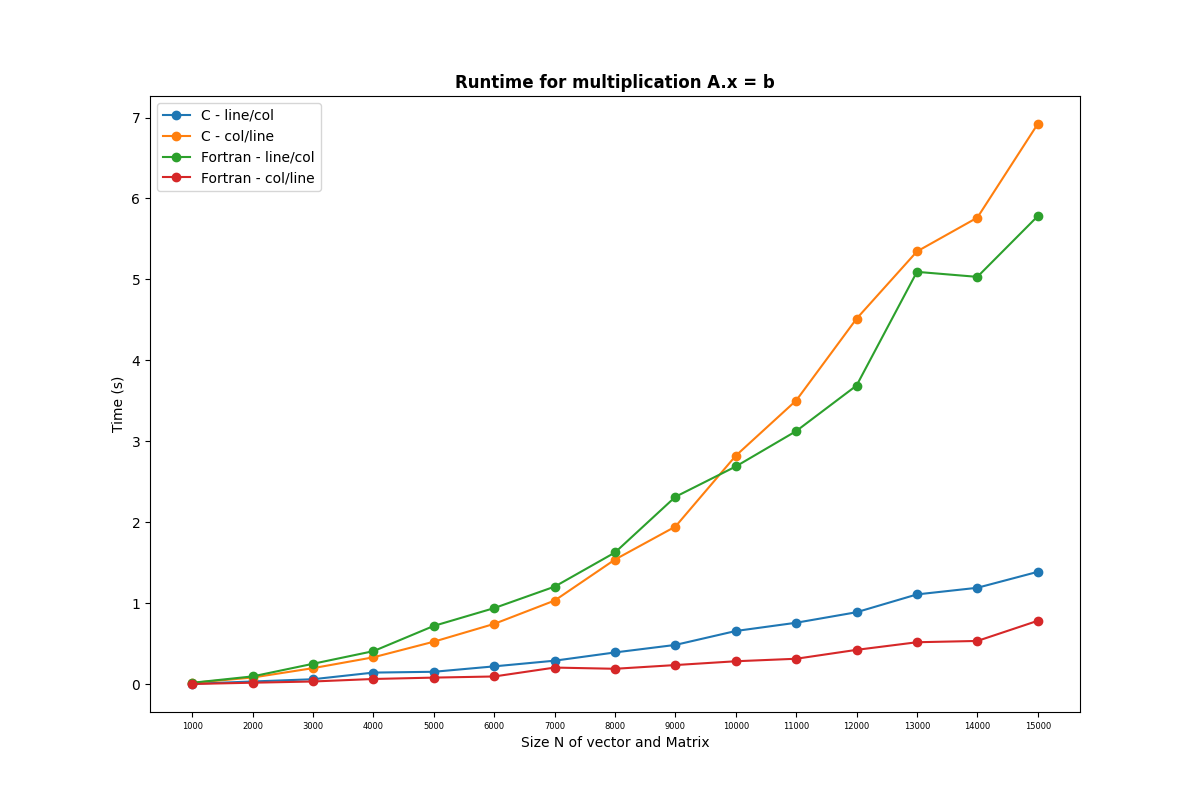
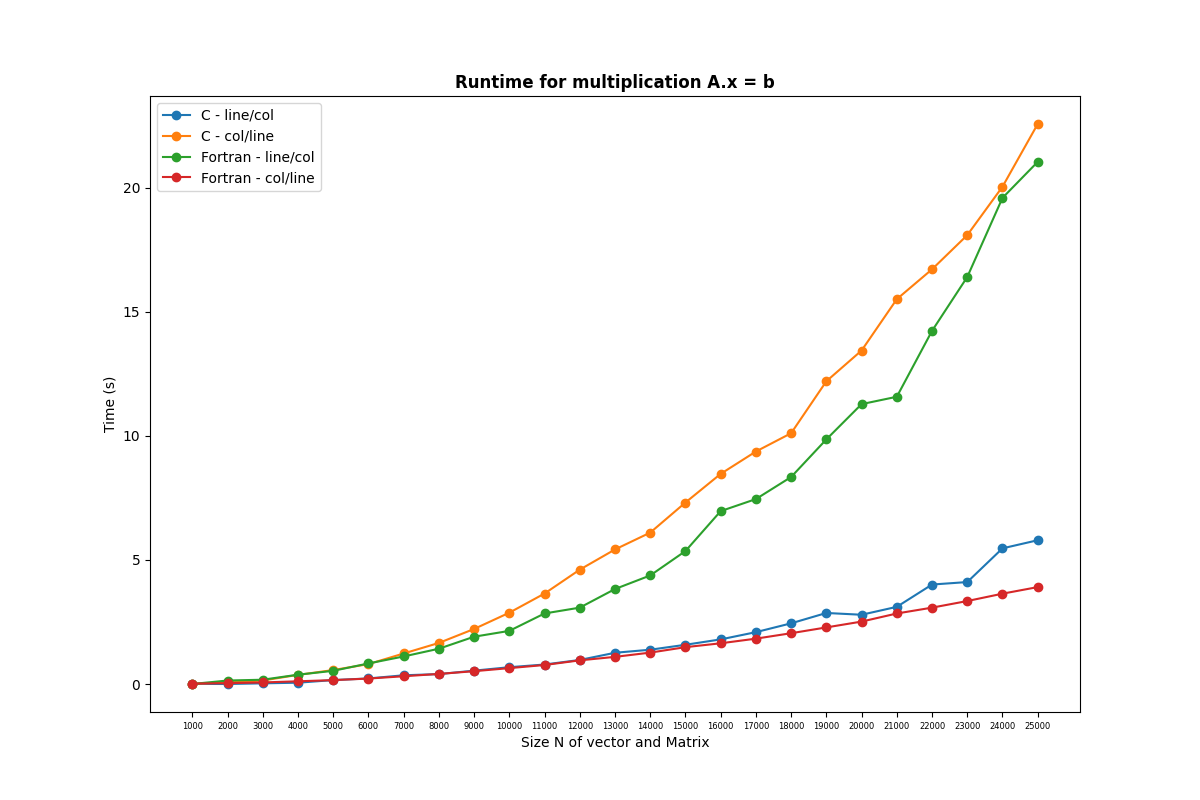
correcting bugs

diff --git a/TP1/plotter.py b/TP1/plotter.py
@@ -2,10 +2,15 @@ import matplotlib.pyplot as plt
 import matplotlib
 import numpy as np
 
-N = [1000, 2000, 3000, 4000, 5000, 6000, 7000, 8000, 9000, 10000, 11000, 12000, 13000, 14000, 15000]
+N = [1000, 2000, 3000, 4000, 5000,
+     6000, 7000, 8000, 9000, 10000,
+     11000, 12000, 13000, 14000, 15000,
+     16000, 17000, 18000, 19000, 20000,
+     21000, 22000, 23000, 24000, 25000]
+
 results = []
 
-filename = "results.txt"
+filename = "COC472/TP1/results.txt"
 
 with open(filename, "r") as file:
     lines = file.readlines()
@@ -26,5 +31,5 @@ plt.xlabel('Size N of vector and Matrix')
 plt.ylabel('Time (s)')
 plt.title('Runtime for multiplication A.x = b', weight = 'bold')
 plt.legend()
-plt.savefig("results.png")
+plt.savefig("COC472/TP1/results.png")
 plt.show()

diff --git a/TP1/multiplier_C.c b/TP1/multiplier_C.c
@@ -5,9 +5,9 @@
 int main()
 {
     // matrix and vector size
-    int Num[] = {1000, 2000, 3000, 4000, 5000, 6000, 7000, 8000, 9000, 10000, 11000, 12000, 13000, 14000, 15000};
+    int Num[] = { 1000, 2000, 3000, 4000, 5000, 6000, 7000, 8000, 9000, 10000, 11000, 12000, 13000, 14000, 15000, 16000, 17000, 18000, 19000, 20000, 21000, 22000, 23000, 24000, 25000};
 
-    for(int N = 0; N < 15; N++){
+    for(int N = 0; N < 25; N++){
         // Initialize random seed
         srand(time(NULL));
 
